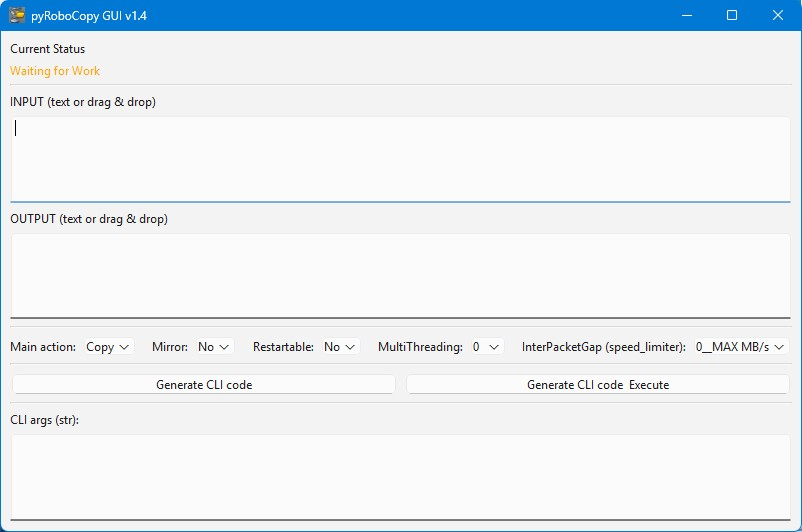
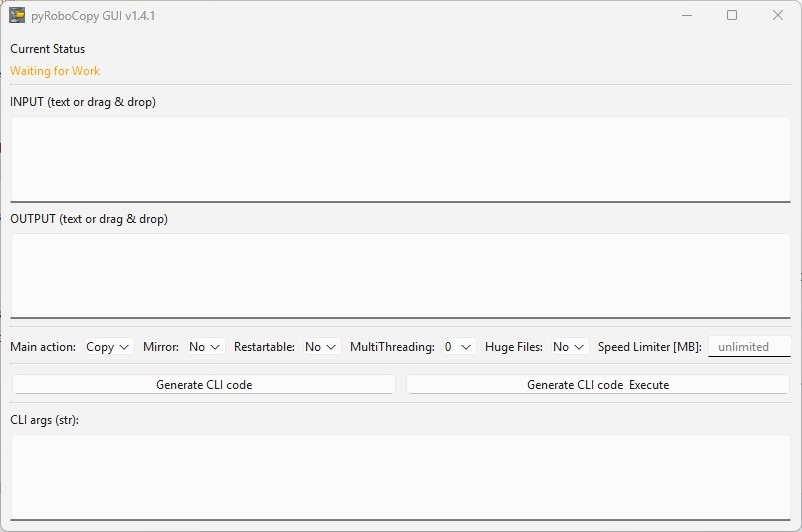
enhanced the speed limiter logic and added a huge files mode

Changed region(s): [[0.0, 0.0, 1.0, 1.0], [0.0, 0.3609, 0.9663, 0.391], [0.1559, 0.6316, 0.9663, 0.6617]]

diff --git a/main.py b/main.py
@@ -5,7 +5,7 @@ from threading import Thread
 from PySide6.QtWidgets import (
     QApplication, QMainWindow, QVBoxLayout, QLabel,
     QTextEdit, QPushButton, QCheckBox, QComboBox,
-    QFrame, QWidget, QHBoxLayout
+    QFrame, QWidget, QHBoxLayout, QLineEdit
 )
 from PySide6.QtGui import QDragEnterEvent, QDropEvent, QIcon
 from PySide6.QtCore import QMetaObject, Q_ARG
@@ -34,7 +34,8 @@ class RoboCopyWrapper():
                  move: bool = False,
                  mirror: bool = False,
                  mt: int = 0,
-                 restartable: bool = False):
+                 restartable: bool = False,
+                 huge_files: bool = False):
 
         self.input = input
         self.output = output
@@ -43,6 +44,7 @@ class RoboCopyWrapper():
         self.mirror = mirror
         self.mt = mt
         self.restartable = restartable
+        self.huge_files = huge_files
 
         # compute the arguments
         if os.path.isdir(self.input):
@@ -93,6 +95,7 @@ class RoboCopyWrapper():
             (' /MIR' if self.mirror else '') + \
             (' /Z' if self.restartable else '') + \
             (f' /MT:{self.mt}' if self.mt else '') + \
+            (' /J' if self.huge_files else '') + \
             f' /IPG:{self.ipg_str}'
 
 def get_running_path(relative_path):
@@ -100,6 +103,24 @@ def get_running_path(relative_path):
         return os.path.join('_internal', relative_path)
     else:
         return relative_path
+
+def _calculate_ipg(max_speed_mb_s,
+                   robocopy_j=False):
+    # Constants
+    packet_size = 65536  # 64 KB in bytes
+    robocopy_j_packet_size = 1024 * 1024  # 1 MB in bytes for Robocopy /J
+
+    # Convert max speed from MB/s to bytes per second
+    max_speed_bytes_s = max_speed_mb_s * 1024 * 1024
+
+    # Calculate the number of packets per second
+    packets_per_second = max_speed_bytes_s / (robocopy_j_packet_size if robocopy_j else packet_size)
+
+    # Calculate the IPG in milliseconds
+    ipg = 1000 / packets_per_second
+
+    # Return the IPG rounded to the nearest integer (Robocopy uses integer values for IPG)
+    return round(ipg)
 
 class MainWindow(QMainWindow):
     def __init__(self):
@@ -157,15 +178,13 @@ class MainWindow(QMainWindow):
         self.multithreading_selection_combobox = QComboBox()
         self.multithreading_selection_combobox.addItems(['0', '2', '5', '10', '15', '20'])
 
-        self.ipg_label = QLabel("InterPacketGap (speed_limiter):")
-        self.ipg_combobox = QComboBox()
-        self.ipg_combobox.addItems([
-            "0__MAX MB/s",
-            "25__30 MB/s",
-            "30__22 MB/s",
-            "40__20 MB/s",
-            "50__14.5 MB/s",
-        ])
+        self.huge_files_selection_label = QLabel("Huge Files:")
+        self.huge_files_selection_combobox = QComboBox()
+        self.huge_files_selection_combobox.addItems(["No", "Yes"])
+
+        self.speed_limit_label = QLabel("Speed Limiter [MB]:")
+        self.speed_limit_input = QLineEdit()
+        self.speed_limit_input.setPlaceholderText('unlimited')
 
         options_layout.addWidget(self.main_action_selection_label)
         options_layout.addWidget(self.main_action_selection_combobox)
@@ -179,8 +198,11 @@ class MainWindow(QMainWindow):
         options_layout.addWidget(self.multithreading_selection_label)
         options_layout.addWidget(self.multithreading_selection_combobox)
         options_layout.addStretch()
-        options_layout.addWidget(self.ipg_label)
-        options_layout.addWidget(self.ipg_combobox)
+        options_layout.addWidget(self.huge_files_selection_label)
+        options_layout.addWidget(self.huge_files_selection_combobox)
+        options_layout.addStretch()
+        options_layout.addWidget(self.speed_limit_label)
+        options_layout.addWidget(self.speed_limit_input)
         main_layout.addLayout(options_layout)
 
         # Separator
@@ -220,10 +242,13 @@ class MainWindow(QMainWindow):
         robocopy_wrapper = RoboCopyWrapper(input=self.input_textbox.toPlainText().strip(),
                                            output=self.output_textbox.toPlainText().strip(),
                                            move=True if self.main_action_selection_combobox.currentText() == 'Move' else False,
-                                           ipg=int(self.ipg_combobox.currentText().split('__')[0]),
+                                           ipg=int(_calculate_ipg(int(self.speed_limit_input.text())))
+                                                if (self.speed_limit_input.text() != 'unlimited' and self.speed_limit_input.text().isdigit())
+                                                else 0,
                                            mirror=True if self.mirror_selection_combobox.currentText() == 'Yes' else False,
                                            mt=int(self.multithreading_selection_combobox.currentText()),
-                                           restartable=True if self.restartable_selection_combobox.currentText() == 'Yes' else False)
+                                           restartable=True if self.restartable_selection_combobox.currentText() == 'Yes' else False,
+                                           huge_files=True if self.huge_files_selection_combobox.currentText() == 'Yes' else False)
         # Sanity checks
         sanity_check = robocopy_wrapper.sanity_check()
         if not sanity_check['success']:
